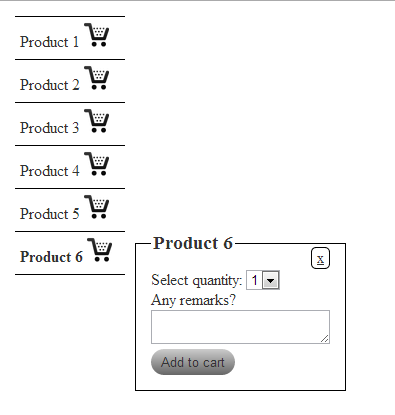
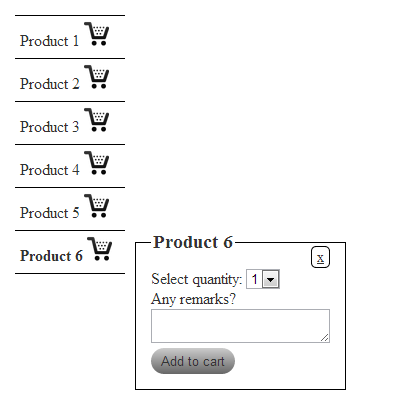
CSS

diff --git a/Web Design/CSS/Exam/CSS Exam - Variant 1/Task 3/task3.css b/Web Design/CSS/Exam/CSS Exam - Variant 1/Task 3/task3.css
@@ -1,1 +1,94 @@
-
+html, body, div, ul, li, a, span, img, fieldset, legend, button, label, textarea, select {
+    margin: 0;
+    padding: 0;
+}
+
+#popup-box {
+    font-family: serif, Cambria, 'Times New Roman', 'DejaVu Sans', sans-serif;
+    font-size: 16px;
+    margin: 15px auto auto 15px;
+    list-style-type: none;
+    display: inline-block;
+}
+
+    /* Menu */
+    #popup-box > li {
+        border-top: 1px solid #000;
+        padding: 5px 13px 7px 5px;
+    }
+
+        #popup-box > li:last-child {
+            border-bottom: 1px solid #000;
+        }
+
+        #popup-box > li > a {
+            text-decoration: none;
+            color: #333;
+        }
+
+            #popup-box > li > a > img {
+                width: 25px;
+            }
+
+        /* Products */
+        #popup-box > li > div {
+            position: absolute;
+            left: 135px;
+            margin-top: -35px;
+        }
+
+            /* Close button */
+            #popup-box > li > div > a {
+                position: absolute;
+                right: 16px;
+                margin-top: 15px;
+                border: 1px solid #000;
+                border-radius: 5px;
+                text-decoration: none;
+                color: #333;
+                padding: 0 5px;
+            }
+
+                #popup-box > li > div > a:hover {
+                    text-decoration: underline;
+                }
+
+            /* Product box */
+            #popup-box > li > div fieldset {
+                border: 1px solid #000;
+                padding: 15px;
+                color: #333;
+            }
+
+                #popup-box > li > div fieldset legend {
+                    font-size: 120%;
+                    font-weight: bold;
+                    color: #333;
+                    padding: 0 2px;
+                }
+
+                #popup-box > li > div fieldset textarea {
+                    display: block;
+                    margin-bottom: -15px;
+                    width: 177px;
+                }
+
+                #popup-box > li > div fieldset button {
+                    border: none;
+                    border-radius: 15px;
+                    background: linear-gradient(to bottom, #CACACA, #686868);
+                    padding: 5px 10px;
+                    color: #333;
+                }
+
+                    #popup-box > li > div fieldset button:hover {
+                        background: #ccc;
+                    }
+
+.invisible {
+    display: none;
+}
+
+span.current {
+    font-weight: bold;
+}

diff --git a/Web Design/CSS/Exam/CSS Exam - Variant 1/Task 2/task2.css b/Web Design/CSS/Exam/CSS Exam - Variant 1/Task 2/task2.css
@@ -1,1 +1,81 @@
-
+html, body, div, a, form, fieldset, legend, input, label, button {
+    margin: 0;
+    padding: 0;
+}
+
+#wrapper {
+    font-family: Verdana, 'Freeserif', 'DejaVu Sans', 'Liberation Sans', Freesans;
+    font-size: 16px;
+    margin-left: 50px;
+}
+
+/* Links */
+a {
+    text-decoration: none;
+    color: #000;
+    font-size: 120%;
+}
+
+    a.current {
+        font-weight: bold;
+    }
+
+    a:not(.current):hover {
+        color: #666;
+    }
+
+/* Forms */
+form {
+    background: linear-gradient(to bottom, #fff 10%, #5b5b5b 97%);
+    width: 450px;
+}
+
+    form.invisible {
+        display: none;
+    }
+
+    form fieldset {
+        border: 5px solid #000;
+        border-radius: 5px;
+        text-align: right;
+        padding-right: 75px;
+    }
+
+        form fieldset legend {
+            padding: 0 10px;
+            margin-bottom: 13px;
+            font-size: 170%;
+            font-style: italic;
+            font-weight: bold;
+        }
+
+        /* Text fields */
+        form fieldset label {
+            font-weight: bold;
+        }
+
+        form fieldset input {
+            border: none;
+            border-radius: 15px;
+            background: linear-gradient(to bottom, #000, #CACACA);
+            height: 36px;
+            width: 164px;
+            padding-left: 15px;
+            margin: auto auto 7px 1px;
+            outline: none;
+            color: white;
+        }
+
+        /* Buttons */
+        form fieldset button {
+            border: 2px solid #000;
+            border-radius: 15px;
+            background: linear-gradient(to bottom, #000, #FFF);
+            padding: 5px 10px;
+            margin: 3px auto 10px auto;
+            font-size: 120%;
+        }
+
+#form-register fieldset button:hover {
+    background: linear-gradient(to bottom, #000, #BDBDBD 90%);
+}

diff --git a/Web Design/CSS/Exam/CSS Exam - Variant 1/Task 3/task3.html b/Web Design/CSS/Exam/CSS Exam - Variant 1/Task 3/task3.html
@@ -4,7 +4,6 @@
     <title></title>
     <link href="task3.css" rel="stylesheet" />
     <script src="jquery-1.9.0.js"></script>
-
     <script>
         (function () {
             $.fn.popupBox = function createPopupBox() {
@@ -30,13 +29,11 @@
             };
         }).call(jQuery);
     </script>
-
     <script>
         $(function onDocumentReady() {
             $("#popup-box").popupBox();
         });
     </script>
-
 </head>
 <body>
     <div id="wrapper">
@@ -47,7 +44,6 @@
                     <img src="imgs/cart.png" />
                 </a>
                 <div class="popup-content invisible">
-
                     <a href="#" class="btn-popup-close">x</a>
                     <div>
                         <fieldset>

diff --git a/Web Design/CSS/Exam/CSS Exam - Variant 1/Readme.md b/Web Design/CSS/Exam/CSS Exam - Variant 1/Readme.md
@@ -23,10 +23,10 @@ Only your **last** code submission will be evaluated. You have exactly **3 hours
 
 **Task 2**
   * Resolution-width: ***960px***
-  * font-family: ***'Freeserif', 'DejaVu Sans', 'Liberation Sans', Freesans, sans-serif***
+  * font-family: ***Verdana, 'Freeserif', 'DejaVu Sans', 'Liberation Sans', Freesans***
   * font-size: ***16px***
 
 **Task 3**
   * Resolution-width: ***960px***
-  * font-family: ***Arial, Cambria, 'Times New Roman', 'DejaVu Sans', sans-serif***
+  * font-family: ***serif, Cambria, 'Times New Roman', 'DejaVu Sans', sans-serif***
   * font-size: ***16px***
